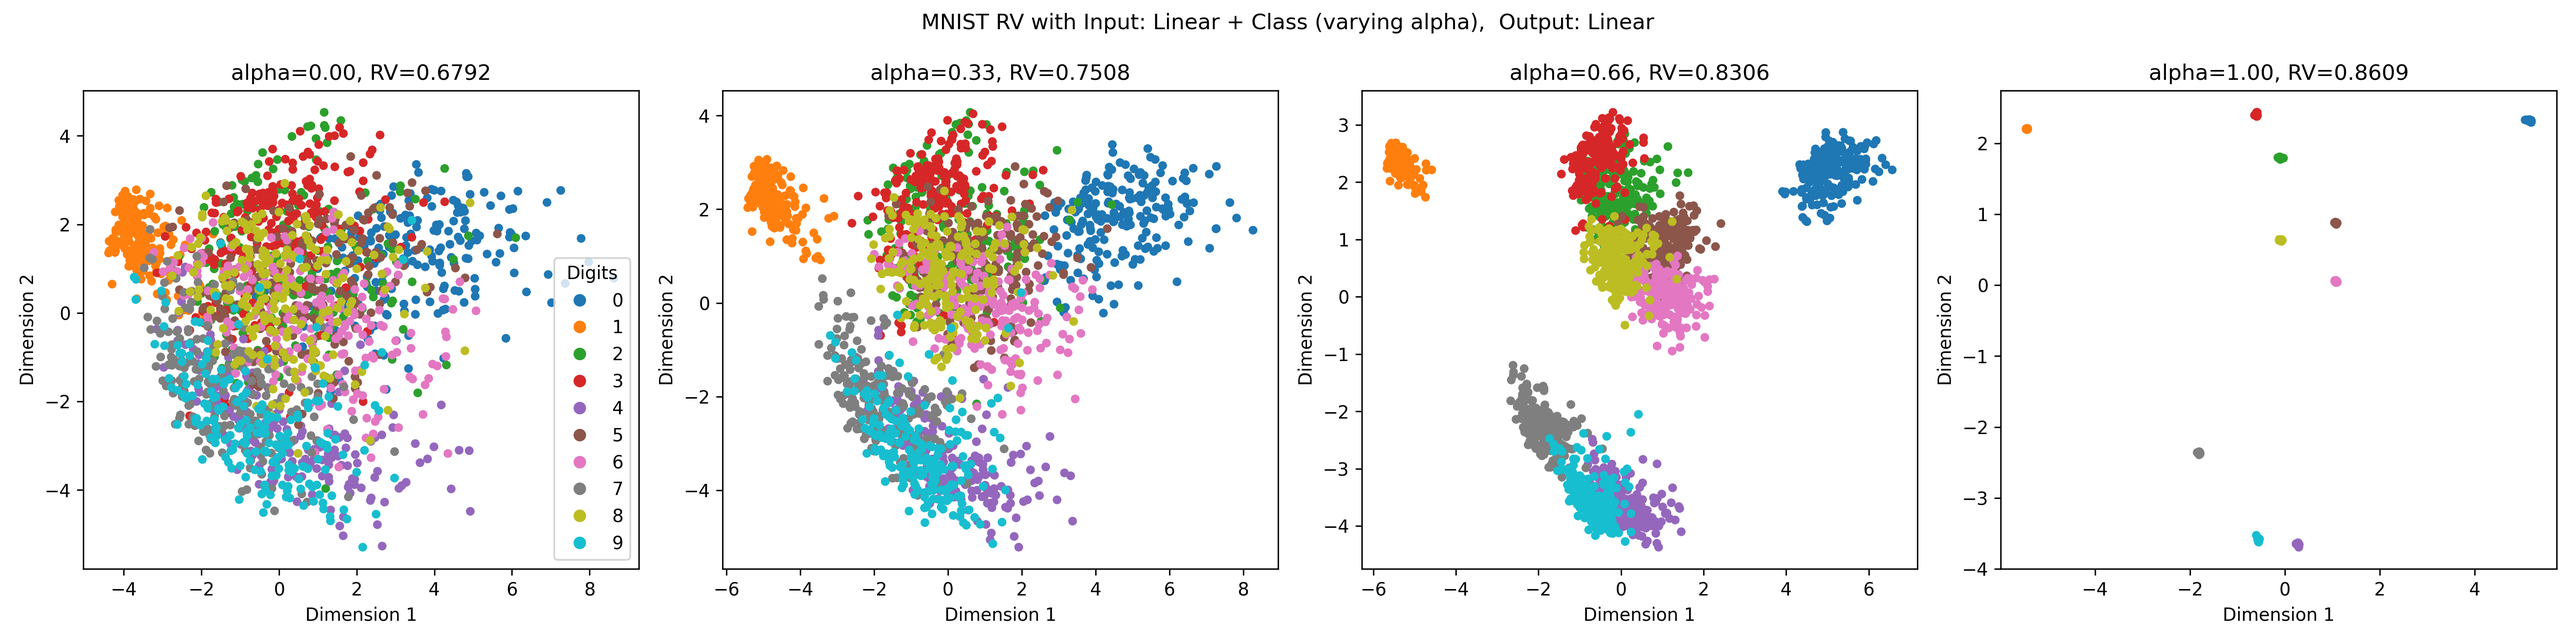
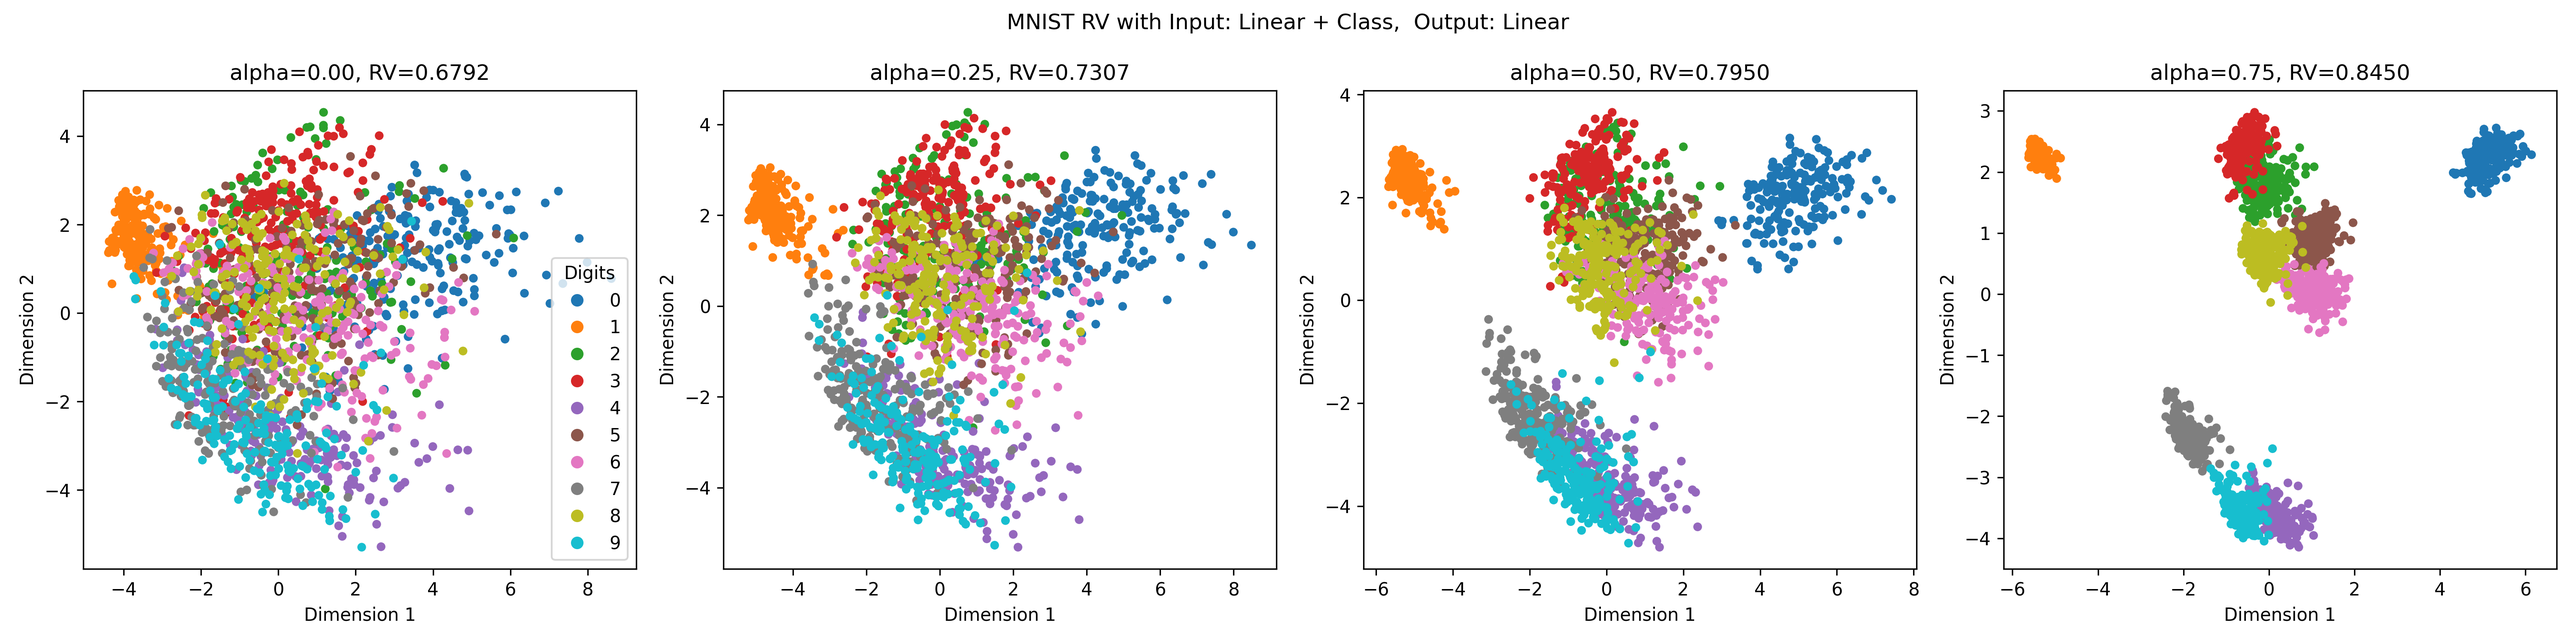
rename rv function

diff --git a/comp_mnist_isomap.py b/comp_mnist_isomap.py
@@ -73,22 +73,22 @@ Y_pca = torch.tensor(PCA(n_components=2).fit_transform(mnist_images),
                      dtype=torch.float32)
 
 # The coordinates of geometry kernel
-Y_geom, RV_final_geom = rv_descent_torch(K_geom, 
-                                         compute_linear_kernel_torch, 
-                                         param=None,
-                                         weights=weights, 
-                                         Y_0=Y_pca.to(device),
-                                         device=device,
-                                         conv_threshold=1e-8)
+Y_geom, RV_final_geom = rv_ascent_torch(K_geom, 
+                                        compute_linear_kernel_torch, 
+                                        param=None,
+                                        weights=weights, 
+                                        Y_0=Y_pca.to(device),
+                                        device=device,
+                                        conv_threshold=1e-8)
 
 # The coordinates of mix kernel
-Y_mix, RV_final_mix = rv_descent_torch(K_mix,
-                                       compute_linear_kernel_torch,
-                                       param=None,
-                                       weights=weights,
-                                       Y_0=Y_pca.to(device),
-                                       device=device,
-                                       conv_threshold=1e-8)
+Y_mix, RV_final_mix = rv_ascent_torch(K_mix,
+                                      compute_linear_kernel_torch,
+                                      param=None,
+                                      weights=weights,
+                                      Y_0=Y_pca.to(device),
+                                      device=device,
+                                      conv_threshold=1e-8)
 
 # --------------------------------------------------------------
 # Plot the results

diff --git a/comp_mnist_pca.py b/comp_mnist_pca.py
@@ -70,22 +70,22 @@ Y_pca = torch.tensor(PCA(n_components=2).fit_transform(mnist_images),
                      dtype=torch.float32)
 
 # The coordinates of geometry kernel
-Y_geom, RV_final_geom = rv_descent_torch(K_geom, 
-                                         compute_linear_kernel_torch, 
-                                         param=None,
-                                         weights=weights, 
-                                         Y_0=Y_pca.to(device),
-                                         device=device,
-                                         conv_threshold=1e-8)
+Y_geom, RV_final_geom = rv_ascent_torch(K_geom, 
+                                        compute_linear_kernel_torch, 
+                                        param=None,
+                                        weights=weights, 
+                                        Y_0=Y_pca.to(device),
+                                        device=device,
+                                        conv_threshold=1e-8)
 
 # The coordinates of mix kernel
-Y_mix, RV_final_mix = rv_descent_torch(K_mix,
-                                       compute_linear_kernel_torch,
-                                       param=None,
-                                       weights=weights,
-                                       Y_0=Y_pca.to(device),
-                                       device=device,
-                                       conv_threshold=1e-8)
+Y_mix, RV_final_mix = rv_ascent_torch(K_mix,
+                                      compute_linear_kernel_torch,
+                                      param=None,
+                                      weights=weights,
+                                      Y_0=Y_pca.to(device),
+                                      device=device,
+                                      conv_threshold=1e-8)
 
 # --------------------------------------------------------------
 # Plot the results

diff --git a/comp_mnist_tsne.py b/comp_mnist_tsne.py
@@ -76,22 +76,22 @@ Y_pca = torch.tensor(PCA(n_components=2).fit_transform(mnist_images),
                      dtype=torch.float32)
 
 # The coordinates of geometry kernel
-Y_geom, RV_final_geom = rv_descent_torch(K_geom, 
-                                         compute_t_kernel_torch, 
-                                         param=1,
-                                         weights=weights, 
-                                         Y_0=Y_pca.to(device),
-                                         device=device,
-                                         conv_threshold=1e-8)
+Y_geom, RV_final_geom = rv_ascent_torch(K_geom, 
+                                        compute_t_kernel_torch, 
+                                        param=1,
+                                        weights=weights, 
+                                        Y_0=Y_pca.to(device),
+                                        device=device,
+                                        conv_threshold=1e-8)
 
 # The coordinates of mix kernel
-Y_mix, RV_final_mix = rv_descent_torch(K_mix,
-                                       compute_t_kernel_torch,
-                                       param=1,
-                                       weights=weights,
-                                       Y_0=Y_pca.to(device),
-                                       device=device,
-                                       conv_threshold=1e-8)
+Y_mix, RV_final_mix = rv_ascent_torch(K_mix,
+                                      compute_t_kernel_torch,
+                                      param=1,
+                                      weights=weights,
+                                      Y_0=Y_pca.to(device),
+                                      device=device,
+                                      conv_threshold=1e-8)
 
 # --------------------------------------------------------------
 # Plot the results

diff --git a/evo_mnist_pca.py b/evo_mnist_pca.py
@@ -62,7 +62,7 @@ norm_class = torch.sqrt(torch.trace(K_class @ K_class))
 # --------------------------------------------------------------
 
 # Mix the kernels 
-alpha_vec = [0, 0.33, 0.66, 1]
+alpha_vec = [0, 0.25, 0.5, 0.75]
 
 # PCA solution for reference
 Y_pca = torch.tensor(PCA(n_components=2).fit_transform(mnist_images), 
@@ -75,13 +75,13 @@ for alpha in alpha_vec:
     K_mix = (1 - alpha) * K_geom / norm_geom + alpha * K_class / norm_class
 
     # The coordinates of mix kernel
-    Y_mix, RV_mix = rv_descent_torch(K_mix,
-                                     compute_linear_kernel_torch,
-                                     param=None,
-                                     weights=weights,
-                                     Y_0=Y_pca.to(device),
-                                     device=device,
-                                     conv_threshold=1e-6)
+    Y_mix, RV_mix = rv_ascent_torch(K_mix,
+                                    compute_linear_kernel_torch,
+                                    param=None,
+                                    weights=weights,
+                                    Y_0=Y_pca.to(device),
+                                    device=device,
+                                    conv_threshold=1e-6)
     Y_mix_list.append(Y_mix)
     RV_mix_list.append(RV_mix)
 
@@ -102,7 +102,7 @@ for i, alpha in enumerate(alpha_vec):
     ax.set_ylabel("Dimension 2")
     if i == 0:
         ax.legend(*scatter.legend_elements(), title="Digits")
-plt.suptitle("MNIST RV with Input: Linear + Class (varying alpha),  Output: Linear")
+plt.suptitle("MNIST RV with Input: Linear + Class,  Output: Linear")
 plt.tight_layout()
 plt.savefig("results/mnist/evo_pca.png", dpi=300)
 plt.show()

diff --git a/mnist_combination.py b/mnist_combination.py
@@ -97,13 +97,13 @@ for i in range(4):
         print(f"Input: {kernel_in_names[i]}, "
               f"Output: {kernel_out_names[j]}\n")
               
-        Y_opt_torch, RV_final_torch = rv_descent_torch(K_in,
-                                                       output_kernel_function, 
-                                                       param=out_param, 
-                                                       Y_0=Y_pca,
-                                                       weights=weights, 
-                                                       conv_threshold=1e-6,
-                                                       device=device)
+        Y_opt_torch, RV_final_torch = rv_ascent_torch(K_in,
+                                                      output_kernel_function, 
+                                                      param=out_param, 
+                                                      Y_0=Y_pca,
+                                                      weights=weights, 
+                                                      conv_threshold=1e-6,
+                                                      device=device)
         print(f"Final RV: {RV_final_torch.item()}\n")
         RV_matrix_torch[i,j] = RV_final_torch.item()
         Y_opt_list.append(Y_opt_torch.detach().cpu().numpy())

diff --git a/reimple_mnist_isomap.py b/reimple_mnist_isomap.py
@@ -60,12 +60,12 @@ Y_pca = torch.tensor(PCA(n_components=2).fit_transform(mnist_images),
                      dtype=torch.float32)
 
 # The coordinates of outputs
-Y_opt_torch, RV_final_torch = rv_descent_torch(K_in, compute_linear_kernel_torch, 
-                                               param=None,
-                                               weights=weights, dim=2, lr=0.1, 
-                                               Y_0=Y_pca.to(device),
-                                               device=device,
-                                               conv_threshold=1e-8)
+Y_opt_torch, RV_final_torch = rv_ascent_torch(K_in, compute_linear_kernel_torch, 
+                                              param=None,
+                                              weights=weights, dim=2, lr=0.1, 
+                                              Y_0=Y_pca.to(device),
+                                              device=device,
+                                              conv_threshold=1e-8)
 
 # --------------------------------------------------------------
 # Plot the results

diff --git a/reimple_mnist_kpca.py b/reimple_mnist_kpca.py
@@ -57,12 +57,12 @@ Y_pca = torch.tensor(PCA(n_components=2).fit_transform(mnist_images),
                      dtype=torch.float32)
 
 # The coordinates of outputs
-Y_opt_torch, RV_final_torch = rv_descent_torch(K_in, compute_linear_kernel_torch, 
-                                               param=None,
-                                               weights=weights, dim=2, lr=0.1, 
-                                               Y_0=Y_pca.to(device),
-                                               device=device,
-                                               conv_threshold=1e-8)
+Y_opt_torch, RV_final_torch = rv_ascent_torch(K_in, compute_linear_kernel_torch, 
+                                              param=None,
+                                              weights=weights, dim=2, lr=0.1, 
+                                              Y_0=Y_pca.to(device),
+                                              device=device,
+                                              conv_threshold=1e-8)
 
 # --------------------------------------------------------------
 # Plot the results

diff --git a/reimple_mnist_lle.py b/reimple_mnist_lle.py
@@ -60,12 +60,12 @@ Y_pca = torch.tensor(PCA(n_components=2).fit_transform(mnist_images),
                      dtype=torch.float32)
 
 # The coordinates of outputs
-Y_opt_torch, RV_final_torch = rv_descent_torch(K_in, compute_linear_kernel_torch, 
-                                               param=None,
-                                               weights=weights, dim=2, lr=0.1, 
-                                               Y_0=Y_pca.to(device),
-                                               device=device,
-                                               conv_threshold=1e-8)
+Y_opt_torch, RV_final_torch = rv_ascent_torch(K_in, compute_linear_kernel_torch, 
+                                              param=None,
+                                              weights=weights, dim=2, lr=0.1, 
+                                              Y_0=Y_pca.to(device),
+                                              device=device,
+                                              conv_threshold=1e-8)
 
 # --------------------------------------------------------------
 # Plot the results

diff --git a/reimple_mnist_spherical.py b/reimple_mnist_spherical.py
@@ -62,12 +62,12 @@ Y_pca = torch.tensor(PCA(n_components=2).fit_transform(mnist_images),
                      dtype=torch.float32)
 
 # The coordinates of outputs
-Y_opt_torch, RV_final_torch = rv_descent_torch(K_in, compute_cosine_kernel_torch, 
-                                               param=None,
-                                               weights=weights, dim=2, lr=0.1, 
-                                               Y_0=Y_pca.to(device),
-                                               device=device,
-                                               conv_threshold=1e-8)
+Y_opt_torch, RV_final_torch = rv_ascent_torch(K_in, compute_cosine_kernel_torch, 
+                                              param=None,
+                                              weights=weights, dim=2, lr=0.1, 
+                                              Y_0=Y_pca.to(device),
+                                              device=device,
+                                              conv_threshold=1e-8)
 
 # --------------------------------------------------------------
 # Plot the results

diff --git a/reimple_mnist_tsne.py b/reimple_mnist_tsne.py
@@ -63,12 +63,12 @@ Y_pca = torch.tensor(PCA(n_components=2).fit_transform(mnist_images),
                      dtype=torch.float32)
 
 # The coordinates of outputs
-Y_opt_torch, RV_final_torch = rv_descent_torch(K_in, compute_t_kernel_torch, 
-                                               param=1,
-                                               weights=weights, dim=2, lr=0.1, 
-                                               Y_0=Y_pca.to(device),
-                                               device=device,
-                                               conv_threshold=1e-8)
+Y_opt_torch, RV_final_torch = rv_ascent_torch(K_in, compute_t_kernel_torch, 
+                                              param=1,
+                                              weights=weights, dim=2, lr=0.1, 
+                                              Y_0=Y_pca.to(device),
+                                              device=device,
+                                              conv_threshold=1e-8)
 
 # --------------------------------------------------------------
 # Plot the results

diff --git a/local_functions.py b/local_functions.py
@@ -58,9 +58,9 @@ def compute_t_kernel(coords, df=3, weights=None):
     return K_mat
 
 # Make the algorithm of gradient descent
-def rv_descent(K_obj, weights, dim=2, lr=0.1, 
-               conv_threshold = 1e-5, 
-               n_iter_max=50000):
+def rv_ascent(K_obj, weights, dim=2, lr=0.1, 
+              conv_threshold = 1e-5, 
+              n_iter_max=50000):
     
     n = K_obj.shape[0]
     H_mat = np.eye(n) - np.outer(np.ones(n), weights)
@@ -287,9 +287,9 @@ def compute_rv(K_in, K_out):
     RV = Scal_Obj_Y / (Norm_in * Norm_out)
     return RV
 
-def rv_descent_torch(K_in, output_kernel_function, param, Y_0=None, weights=None, dim=2, lr=0.1, 
-                     conv_threshold = 1e-5, 
-                     n_iter_max=50000, device='cpu'):
+def rv_ascent_torch(K_in, output_kernel_function, param, Y_0=None, weights=None, 
+                    dim=2, lr=0.1, conv_threshold = 1e-5, n_iter_max=50000, 
+                    device='cpu'):
     
     n = K_in.shape[0]
     if weights is None:

diff --git a/evo_mnist_tsne.py b/evo_mnist_tsne.py
@@ -81,13 +81,13 @@ for alpha in alpha_vec:
     K_mix = (1 - alpha) * K_geom / norm_geom + alpha * K_class / norm_class
     
     # The coordinates of mix kernel
-    Y_mix, RV_mix = rv_descent_torch(K_mix,
-                                     compute_t_kernel_torch,
-                                     param=1,
-                                     weights=weights,
-                                     Y_0=Y_pca.to(device),
-                                     device=device,
-                                     conv_threshold=1e-6)
+    Y_mix, RV_mix = rv_ascent_torch(K_mix,
+                                    compute_t_kernel_torch,
+                                    param=1,
+                                    weights=weights,
+                                    Y_0=Y_pca.to(device),
+                                    device=device,
+                                    conv_threshold=1e-6)
     
     Y_mix_list.append(Y_mix)
     RV_mix_list.append(RV_mix)
